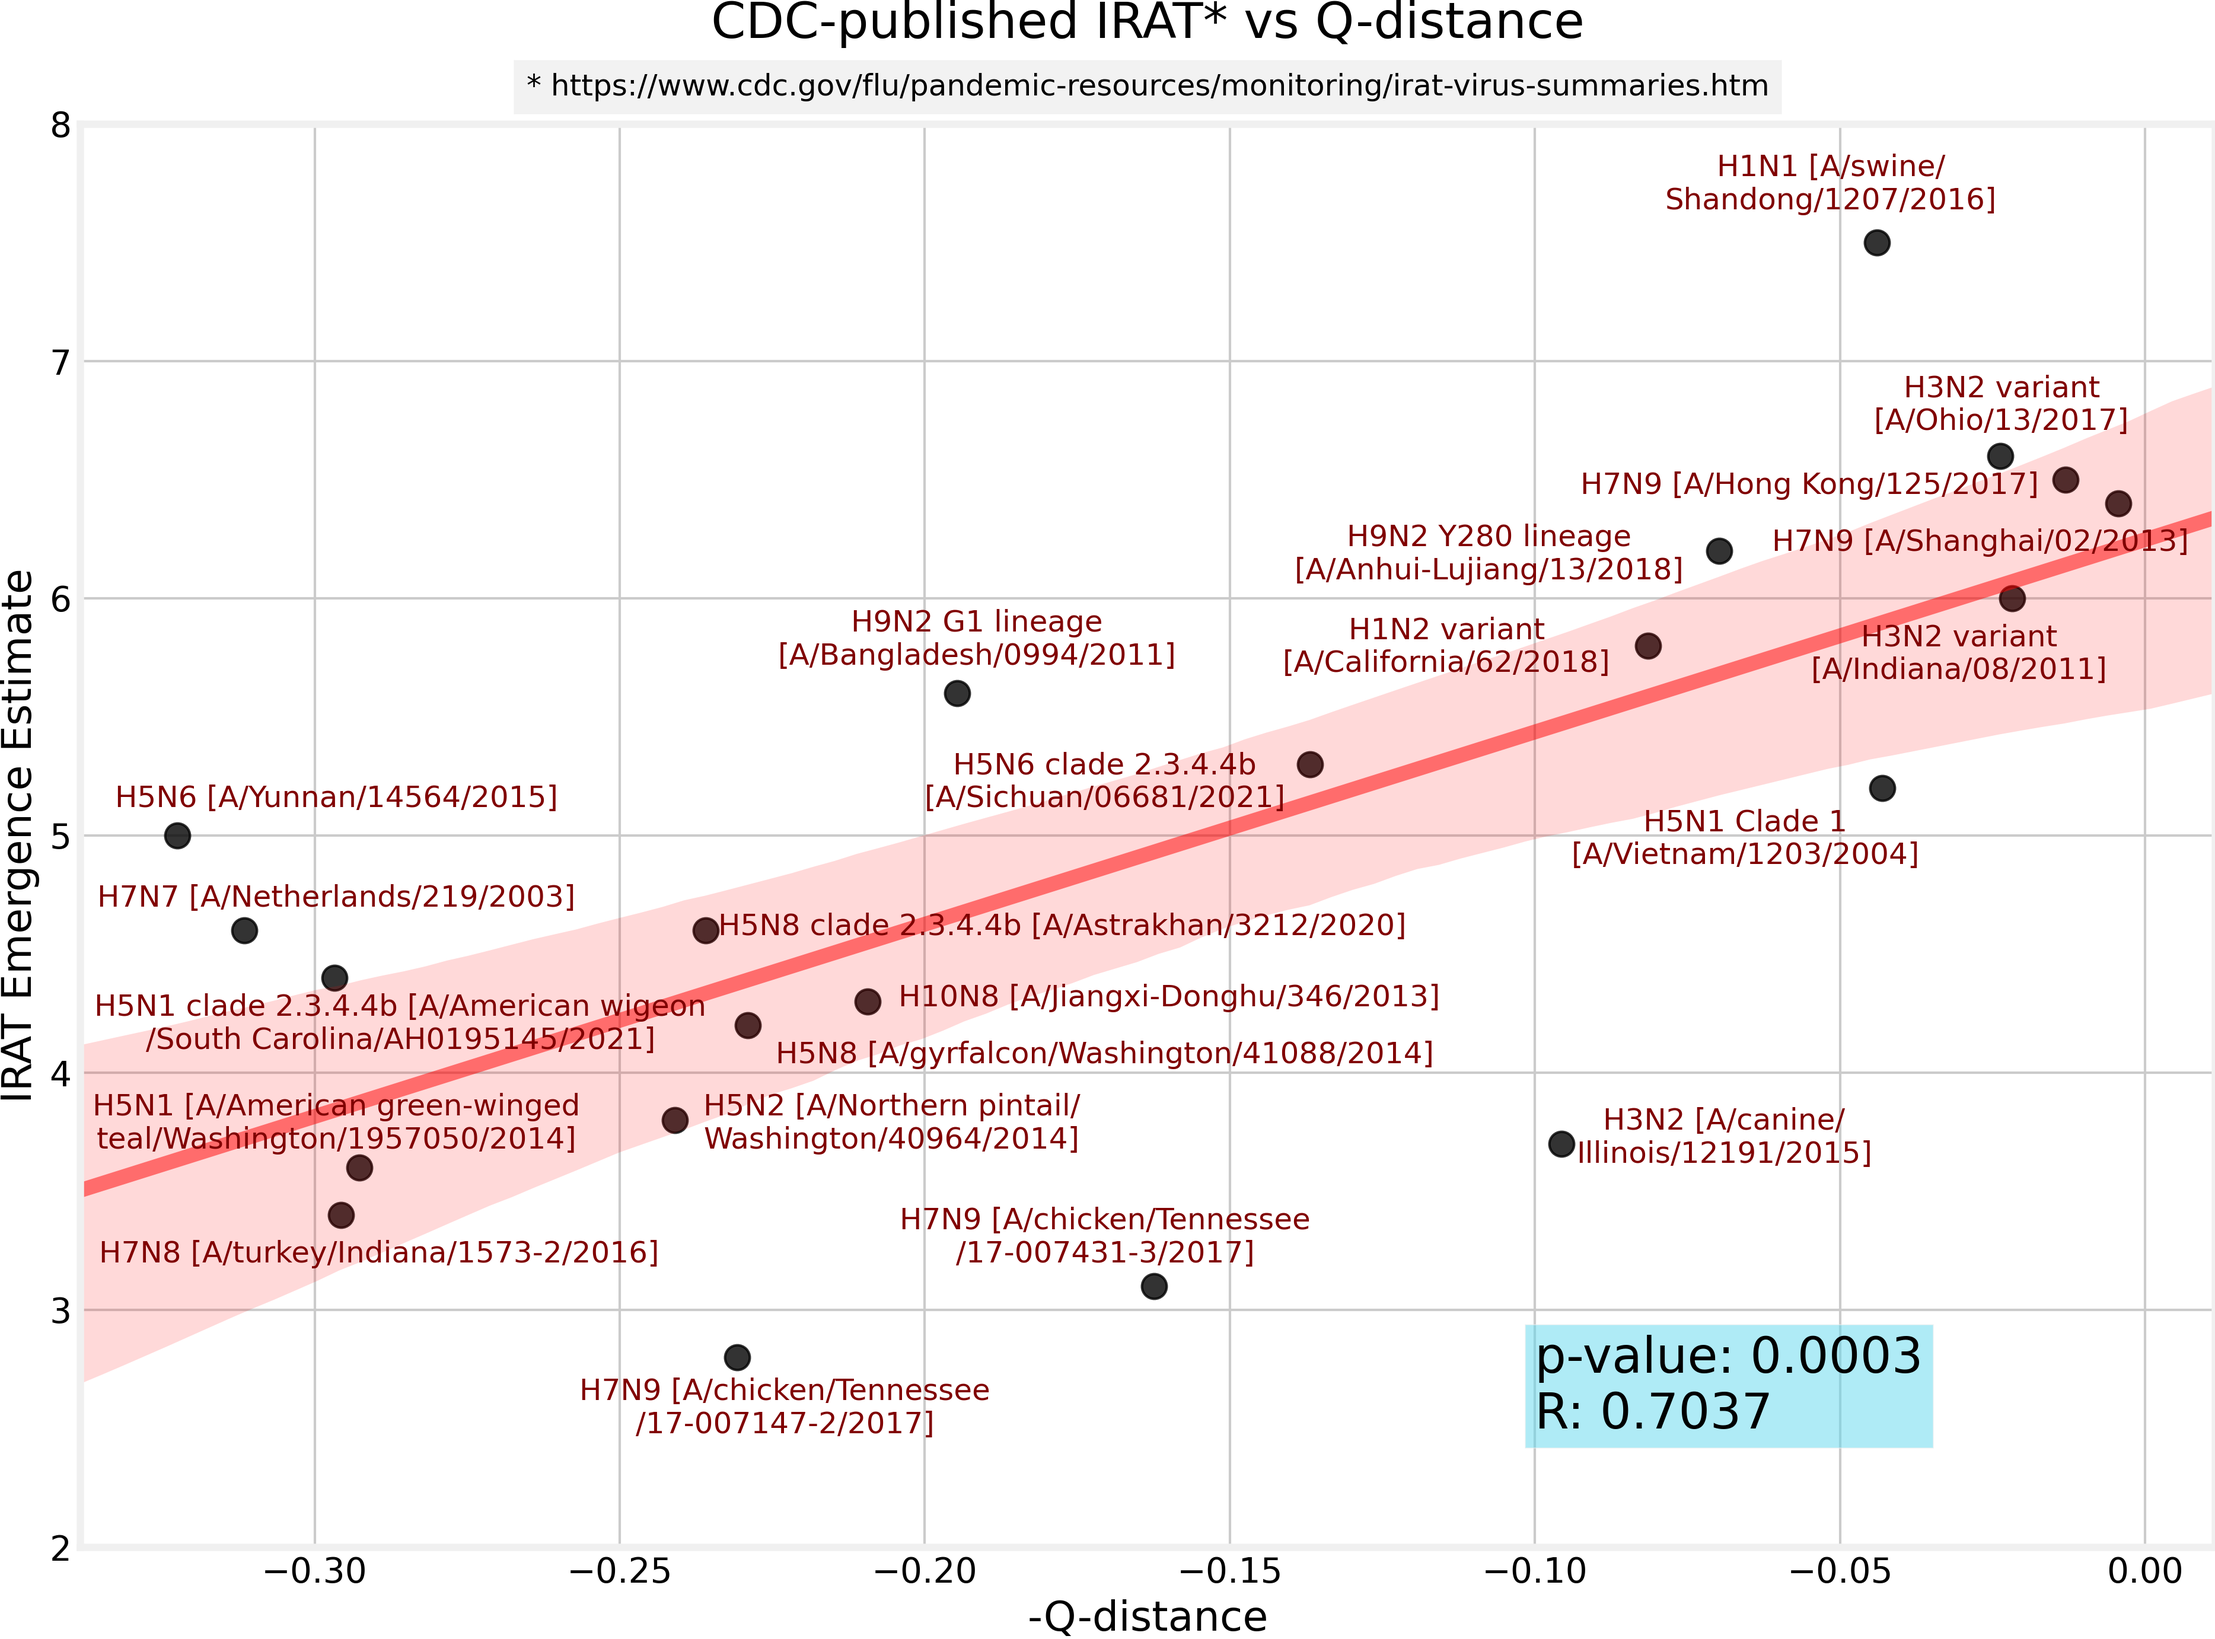
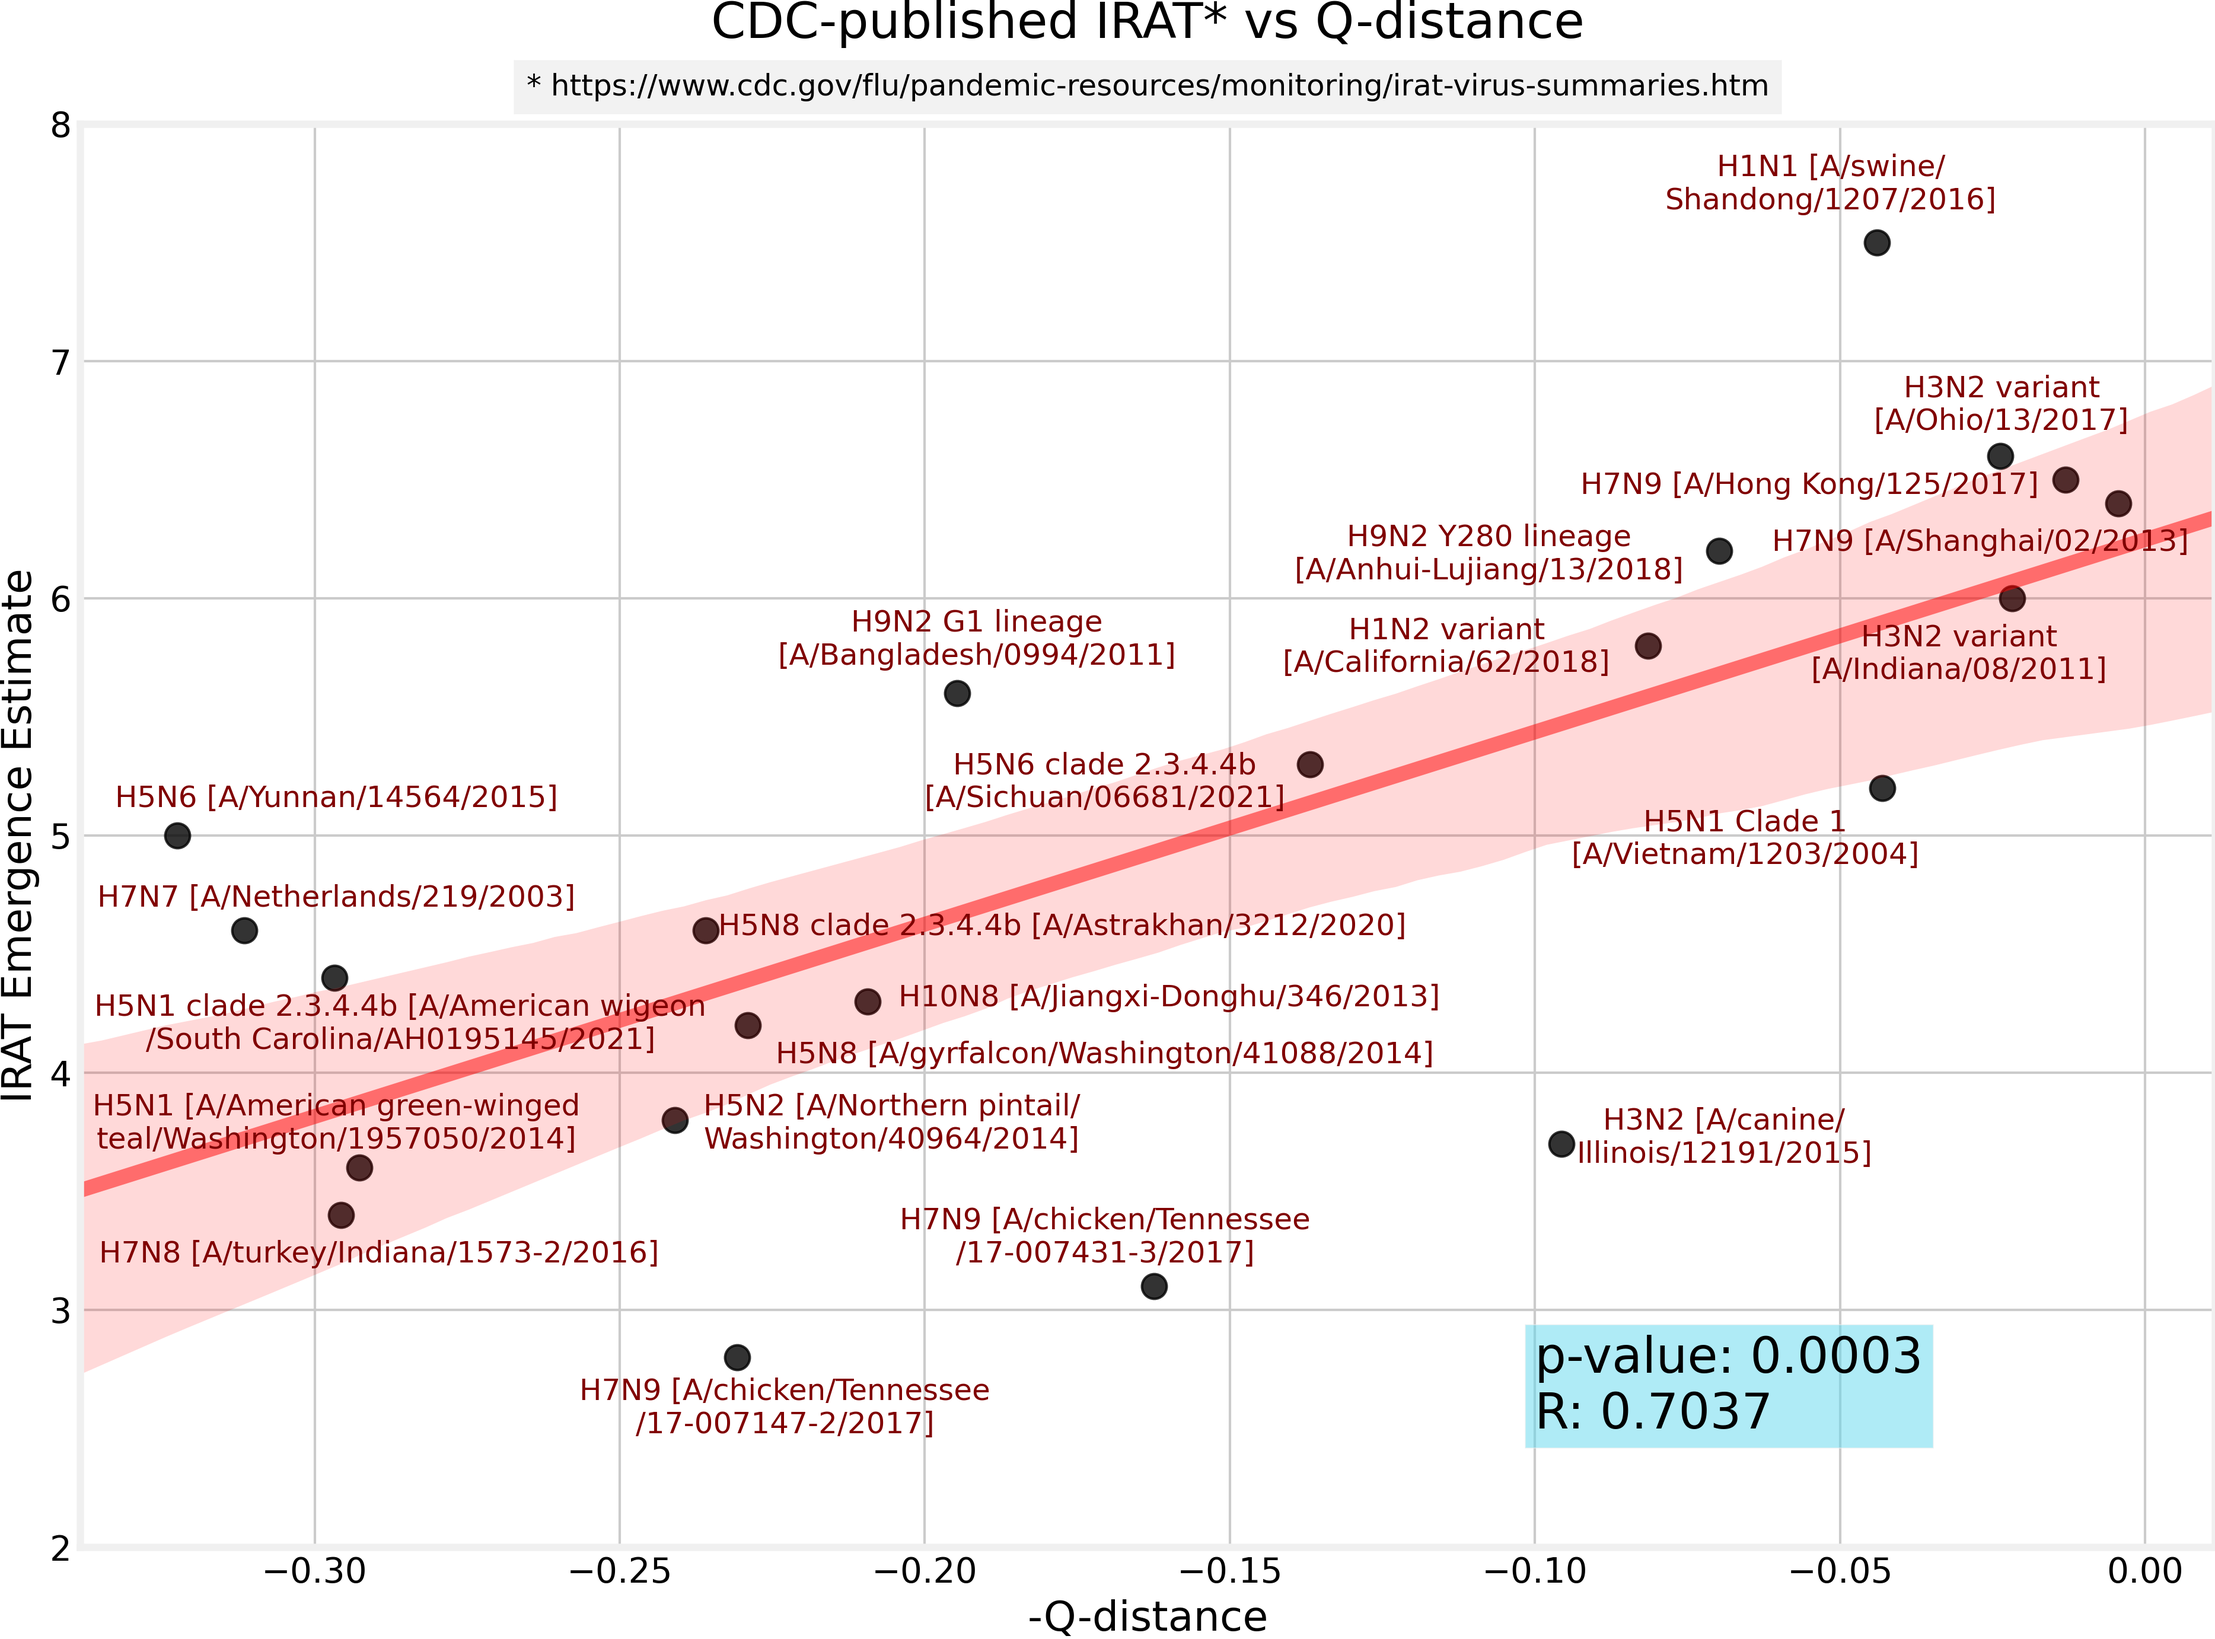
Add files via upload

diff --git a/irat_qnet/figures/irat_predictions.tex b/irat_qnet/figures/irat_predictions.tex
@@ -1,0 +1,26 @@
+\begin{tabular}{L{1.32in}|L{.35in}|L{.3in}|L{.3in}|L{.3in}|L{.35in}|L{.35in}|L{.35in}|L{.35in}|L{.32in}|L{.3in}|L{.3in}}\hline
+Influenza Virus & Subype & IRAT Date &IRAT Emergence Score &IRAT Impact Score &HA Enet Sample &NA Enet Sample &HA Avg. E-dist. &NA Avg. E-dist. &Geom. Mean&Enet Emergence Score&Enet Impact Score \\\hline
+ A/swine/Shandong/1207/2016 &H1N1& Jul  2020 &7.5&6.9&1000&1000&0.0941&0.0205&0.0440&6.00&6.06\\\hline
+ A/Ohio/13/2017 &H3N2& Jul  2019 &6.6&5.8&1000&1000&0.0184&0.0306&0.0238&6.34&6.34\\\hline
+ A/Hong  Kong/125/2017 &H7N9& May  2017 &6.5&7.5&437&437&0.0296&0.0058&0.0131&6.54&6.49\\\hline
+ A/Shanghai/02/2013 &H7N9& Apr  2016 &6.4&7.2&178&178&0.0055&0.0036&0.0044&6.70&6.62\\\hline
+ A/Anhui-Lujiang/39/2018 &H9N2& Jul  2019 &6.2&5.9&31&30&0.0290&0.1681&0.0698&5.58&5.74\\\hline
+ A/Indiana/08/2011 &H3N2& Dec  2012 &6.0&4.5&1000&1000&0.0523&0.0091&0.0218&6.37&6.36\\\hline
+ A/California/62/2018 &H1N2& Jul  2019 &5.8&5.7&55&55&0.1089&0.0610&0.0815&5.41&5.61\\\hline
+ A/Bangladesh/0994/2011$^{\star\star\star}$ &H9N2& Feb  2014 &5.6&5.4&-1&-1&0.2078&0.1823&0.1947&4.21&4.69\\\hline
+ A/Sichuan/06681/2021 &H5N6& Oct  2021 &5.3&6.3&45&45&0.3616&0.0518&0.1369&4.72&5.07\\\hline
+ A/Vietnam/1203/2004 &H5N1& Nov  2011 &5.2&6.6&258&246&0.1673&0.0111&0.0430&6.01&6.07\\\hline
+ A/Yunnan/14564/2015$^{\star\star}$ &H5N6& Apr  2016 &5.0&6.6&344&331&0.3482&0.2987&0.3225&3.80&4.45\\\hline
+ A/Astrakhan/3212/2020$^{\star\star}$ &H5N8& Mar  2021 &4.6&5.2&381&365&0.1603&0.3472&0.2359&3.97&4.53\\\hline
+ A/Netherlands/219/2003 &H7N7& Jun  2012 &4.6&5.8&46&46&0.2757&0.3521&0.3115&3.80&4.45\\\hline
+ A/American  wigeon/South  Carolina/AH0195145/2021 &H5N1& Mar  2022 &4.4&5.1&335&323&0.1722&0.5114&0.2967&3.81&4.45\\\hline
+ A/Jiangxi-Donghu/346/2013$^{\star\star\star}$ &H10N8& Feb  2014 &4.3&6.0&-1&-1&0.2088&0.2101&0.2094&4.11&4.62\\\hline
+ A/gyrfalcon/Washington/ 41088/2014$^{\star\star}$ &H5N8& Mar  2015 &4.2&4.6&341&328&0.1532&0.3424&0.2290&4.00&4.55\\\hline
+ A/Northern  pintail/ Washington/40964/2014$^{\star\star}$ &H5N2& Mar  2015 &3.8&4.1&341&328&0.1529&0.3799&0.2410&3.95&4.51\\\hline
+ A/canine/Illinois/12191/2015 &H3N2& Jun  2016 &3.7&3.7&1000&1000&0.0607&0.1509&0.0957&5.22&5.45\\\hline
+ A/American  green-winged  teal /Washington/1957050/2014 &H5N1& Mar 2015 &3.6&4.1&326&314&0.1911&0.4482&0.2927&3.82&4.45\\\hline
+ A/turkey/Indiana/1573-2/2016$^{\star\star}$ &H7N8& Jul  2017 &3.4&3.9&495&494&0.1130&0.7738&0.2957&3.81&4.45\\\hline
+ A/chicken/Tennessee/17-007431-3/2017 &H7N9& Oct  2017 &3.1&3.5&496&495&0.1027&0.2569&0.1624&4.47&4.88\\\hline
+ A/chicken/Tennessee/17-007147-2/2017 &H7N9& Oct  2017 &2.8&3.5&496&495&0.2095&0.2541&0.2307&3.99&4.54\\\hline
+ A/duck/New  York/1996 $^\star$&H1N1& Nov  2011 &2.3&2.4&1000&1000&-1&-1&-1&-1&-1\\\hline
+ \end{tabular}

diff --git a/irat_qnet/figures/irat_predictions_current.tex b/irat_qnet/figures/irat_predictions_current.tex
@@ -1,0 +1,26 @@
+\begin{tabular}{L{1.32in}|L{.35in}|L{.3in}|L{.3in}|L{.3in}|L{.35in}|L{.35in}|L{.35in}|L{.35in}|L{.32in}|L{.3in}|L{.3in}}\hline
+Influenza Virus & Subype & IRAT Date &IRAT Emergence Score &IRAT Impact Score &HA Enet Sample &NA Enet Sample &HA Avg. E-dist. &NA Avg. E-dist. &Geom. Mean&Enet Emergence Score&Enet Impact Score \\\hline
+ A/swine/Shandong/1207/2016 &H1N1& Jul  2020 &7.5&6.9&1000&1000&0.0599&0.0417&0.0500&5.89&5.98\\\hline
+ A/Ohio/13/2017 &H3N2& Jul  2019 &6.6&5.8&1000&1000&0.0091&0.0692&0.0251&6.31&6.32\\\hline
+ A/Hong  Kong/125/2017 &H7N9& May  2017 &6.5&7.5&1000&1000&0.0092&0.0046&0.0065&6.66&6.59\\\hline
+ A/Shanghai/02/2013 &H7N9& Apr  2016 &6.4&7.2&1000&1000&0.0031&0.0044&0.0037&6.71&6.63\\\hline
+ A/Anhui-Lujiang/39/2018 &H9N2& Jul  2019 &6.2&5.9&58&58&0.0157&0.0467&0.0271&6.28&6.29\\\hline
+ A/Indiana/08/2011 &H3N2& Dec  2012 &6.0&4.5&1000&1000&0.0176&0.0184&0.0180&6.44&6.42\\\hline
+ A/California/62/2018 &H1N2& Jul  2019 &5.8&5.7&37&37&0.2038&0.0477&0.0986&5.18&5.42\\\hline
+ A/Bangladesh/0994/2011 &H9N2& Feb  2014 &5.6&5.4&58&58&0.0473&0.4654&0.1484&4.60&4.98\\\hline
+ A/Sichuan/06681/2021 &H5N6& Oct  2021 &5.3&6.3&46&46&0.3443&0.0600&0.1437&4.65&5.02\\\hline
+ A/Vietnam/1203/2004 &H5N1& Nov  2011 &5.2&6.6&48&45&0.1323&0.0411&0.0738&5.52&5.69\\\hline
+ A/Yunnan/14564/2015 &H5N6& Apr  2016 &5.0&6.6&46&46&0.2187&0.0415&0.0953&5.22&5.46\\\hline
+ A/Astrakhan/3212/2020 &H5N8& Mar  2021 &4.6&5.2&95&92&0.2366&0.5451&0.3591&3.80&4.45\\\hline
+ A/Netherlands/219/2003 &H7N7& Jun  2012 &4.6&5.8&1000&1000&0.1658&0.4596&0.2760&3.84&4.46\\\hline
+ A/American  wigeon/South  Carolina/AH0195145/2021 &H5N1& Mar  2022 &4.4&5.1&48&45&0.2355&0.3135&0.2717&3.85&4.46\\\hline
+ A/Jiangxi-Donghu/346/2013$^{\star\star}$ &H10N8& Feb  2014 &4.3&6.0&-1&-1&0.2097&0.2299&0.2196&4.05&4.58\\\hline
+ A/gyrfalcon/Washington/ 41088/2014 &H5N8& Mar  2015 &4.2&4.6&95&92&0.2387&0.5438&0.3603&3.80&4.45\\\hline
+ A/Northern  pintail /Washington/40964/2014 &H5N2& Mar  2015 &3.8&4.1&95&92&0.2327&0.5099&0.3445&3.80&4.45\\\hline
+ A/canine/Illinois/12191/2015 &H3N2& Jun  2016 &3.7&3.7&1000&1000&0.0179&0.0374&0.0259&6.30&6.31\\\hline
+ A/American  green-winged  teal /Washington/1957050/2014 &H5N1& Mar  2015 &3.6&4.1&48&45&0.2352&0.3067&0.2686&3.86&4.46\\\hline
+ A/turkey/Indiana/1573-2/2016 &H7N8& Jul  2017 &3.4&3.9&1000&1000&0.0438&0.4165&0.1351&4.74&5.09\\\hline
+ A/chicken/Tennessee/17-007431-3/2017 &H7N9& Oct  2017 &3.1&3.5&1000&1000&0.0335&0.5127&0.1310&4.79&5.12\\\hline
+ A/chicken/Tennessee/17-007147-2/2017 &H7N9& Oct  2017 &2.8&3.5&1000&1000&0.0839&0.5127&0.2075&4.12&4.63\\\hline
+ A/duck/New  York/1996$^\star$ &H1N1& Nov  2011 &2.3&2.4&1000&1000&-1&-1&-1&-1&-1\\\hline
+\end{tabular}
